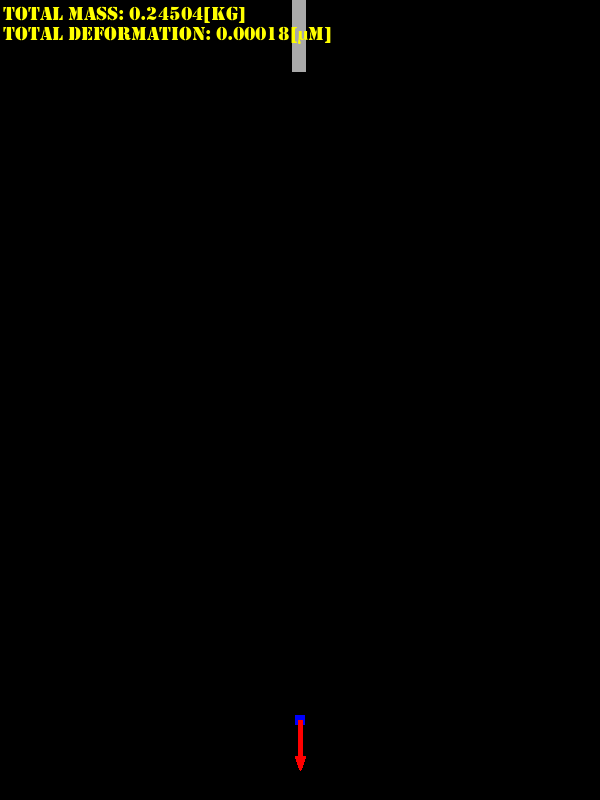
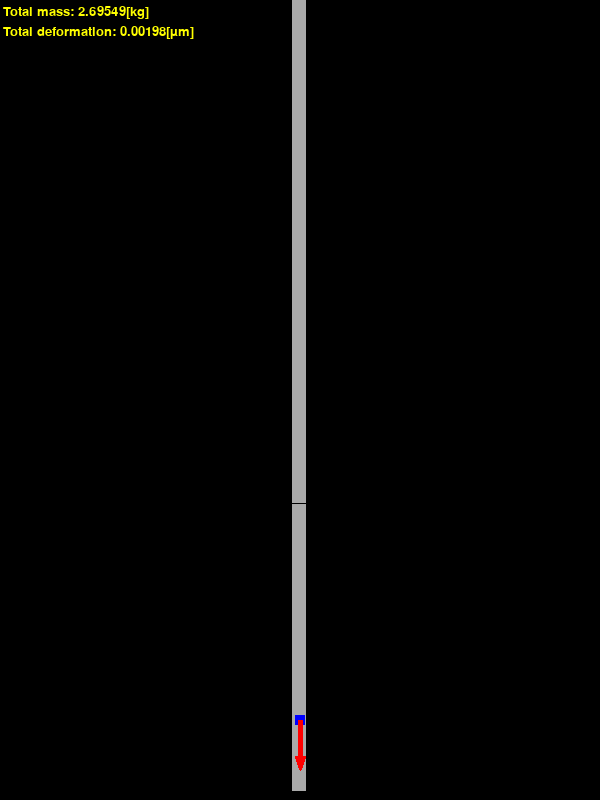
redesing reward system

Changed region(s): [[0.0, 0.0, 0.57, 0.0625], [0.48, 0.0938, 0.51, 1.0]]

diff --git a/RL/Environment/custom_environment.py b/RL/Environment/custom_environment.py
@@ -116,18 +116,19 @@ class StackedBarsEnv(Env):
 
         # create a atan function that goes from 0 to 1 with the distance 
 
-        reward = (1 / current_mass) /( 1 / self.min_mass) * self.min_h
         # Check if the bar has reached the goal
-        done = False
+        done = (position >= self.goal_dist)
 
 
-        if position >= self.goal_dist:
-            done = True
-            reward += 1
+        reward = 1/(t_mass*position**2)
+
  
-        elif n_stress > self.s_y:
-            reward -= 1
-            done = True
+        if n_stress > self.s_y:
+            reward -= t_mass*position**2
+            reward -= 100
+        if self.list_render[4] > r_bar:
+            reward += 100
+            
             
         # Store the state
         state_action_holder= np.concatenate((self.state, action), axis=None)

diff --git a/RL/RL_Algorithms/Train/train.py b/RL/RL_Algorithms/Train/train.py
@@ -28,7 +28,7 @@ class TrainDDPGAgent():
                             batch_size=self.batch_size, layer1_size=self.layer1_size, layer2_size=self.layer2_size, 
                             n_actions=self.n_actions)
     
-        np.random.seed(1)
+        np.random.seed(0)
         self.score_history = []
         self.train()
 

diff --git a/RL/main.py b/RL/main.py
@@ -8,10 +8,7 @@ from RL_Algorithms.Train.train import TrainDDPGAgent
 from RL_Algorithms.Train.auto_train import ddpg_auto_train
 
 
-import os
-import numpy as np
 import argparse
-import unittest as ut
 
 
 """

diff --git a/RL/RL_Algorithms/Train/utils.py b/RL/RL_Algorithms/Train/utils.py
@@ -15,5 +15,5 @@ def plotLearning(scores, filename, x=None, window=10):
     ax.grid()
     fig.savefig(filename)
     plt.show(block = False)
-    plt.pause(3)
+    plt.pause(0.001)
     plt.close(fig)

diff --git a/RL/Render/render.py b/RL/Render/render.py
@@ -1,8 +1,5 @@
 import pygame as pg
 import numpy as np
-import sys
-import random
-import time
 
 # Create the environment
 
